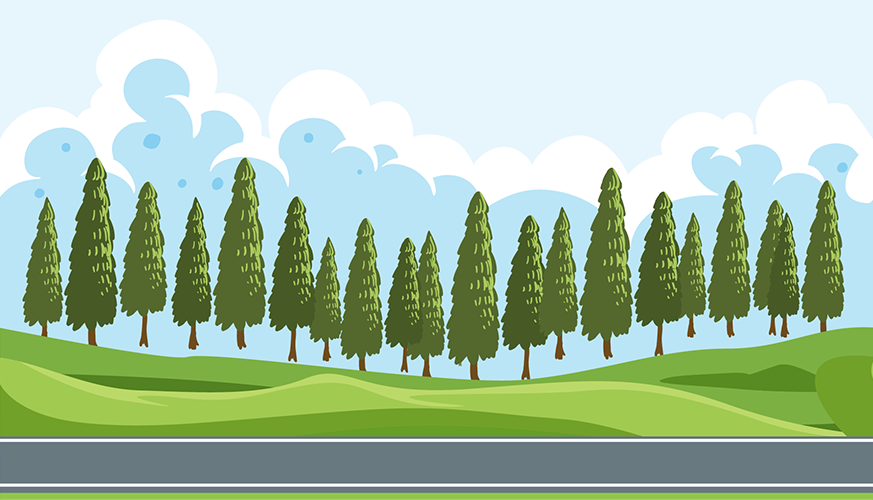
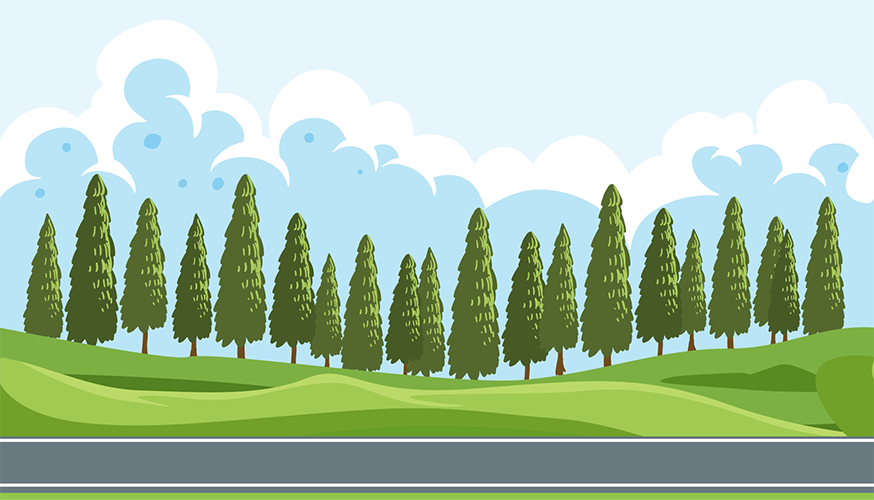
Update backgroud

Changed region(s): [[0.0, 0.3, 0.9897, 0.78]]

diff --git a/index.html b/index.html
@@ -4,8 +4,71 @@
     <meta charset="UTF-8">
     <meta name="viewport" content="width=device-width, initial-scale=1.0">
     <title>Document</title>
+    <style>
+        .fox-eyes{
+            background-image: url(images/fox-eyes.png);
+            animation: moveEye 1s steps(2) infinite;
+        }
+
+        .fox-standing{
+            background-image: url(images/fox-standing.png);
+            animation: moveStand 1s steps(6) infinite;
+        }
+
+        .fox-running{
+            background-image: url(images/fox-running.png);
+            animation: moveRun 1s steps(8) infinite;
+        }
+
+        @keyframes moveEye{
+            from{background-position-x: 0px;}
+            to{background-position-x: -434px;}
+        }
+
+        @keyframes moveStand{
+            from{background-position-x: 0px;}
+            to{background-position-x: -1301px;}
+        }
+
+        @keyframes moveRun{
+            from{background-position-x: -216.88px;}
+            to{background-position-x: -1952px;}
+        }
+
+        body{
+            margin: 0;
+            padding: 0;
+        }
+
+        .fox-object{
+            width: 218px;
+            height: 204px;
+            position: absolute;
+            left: 20px;
+            bottom: 20px;
+        }
+
+        .backgroud{
+            background-image: url(images/backgroud.png);
+            height: 500px;
+            width: 100%;
+            position: relative;
+        }
+
+        .backgroud-running{
+            animation: moveBackgroud 5s linear infinite;
+        }
+
+        @keyframes moveBackgroud{
+            from{background-position-x: 0px;}
+            to{background-position-x: -873px;}
+        }
+    </style>
 </head>
 <body>
-    
+    <div class="backgroud backgroud-running">
+        <div class="fox-object fox-running">
+        </div>
+    </div>
 </body>
 </html>
